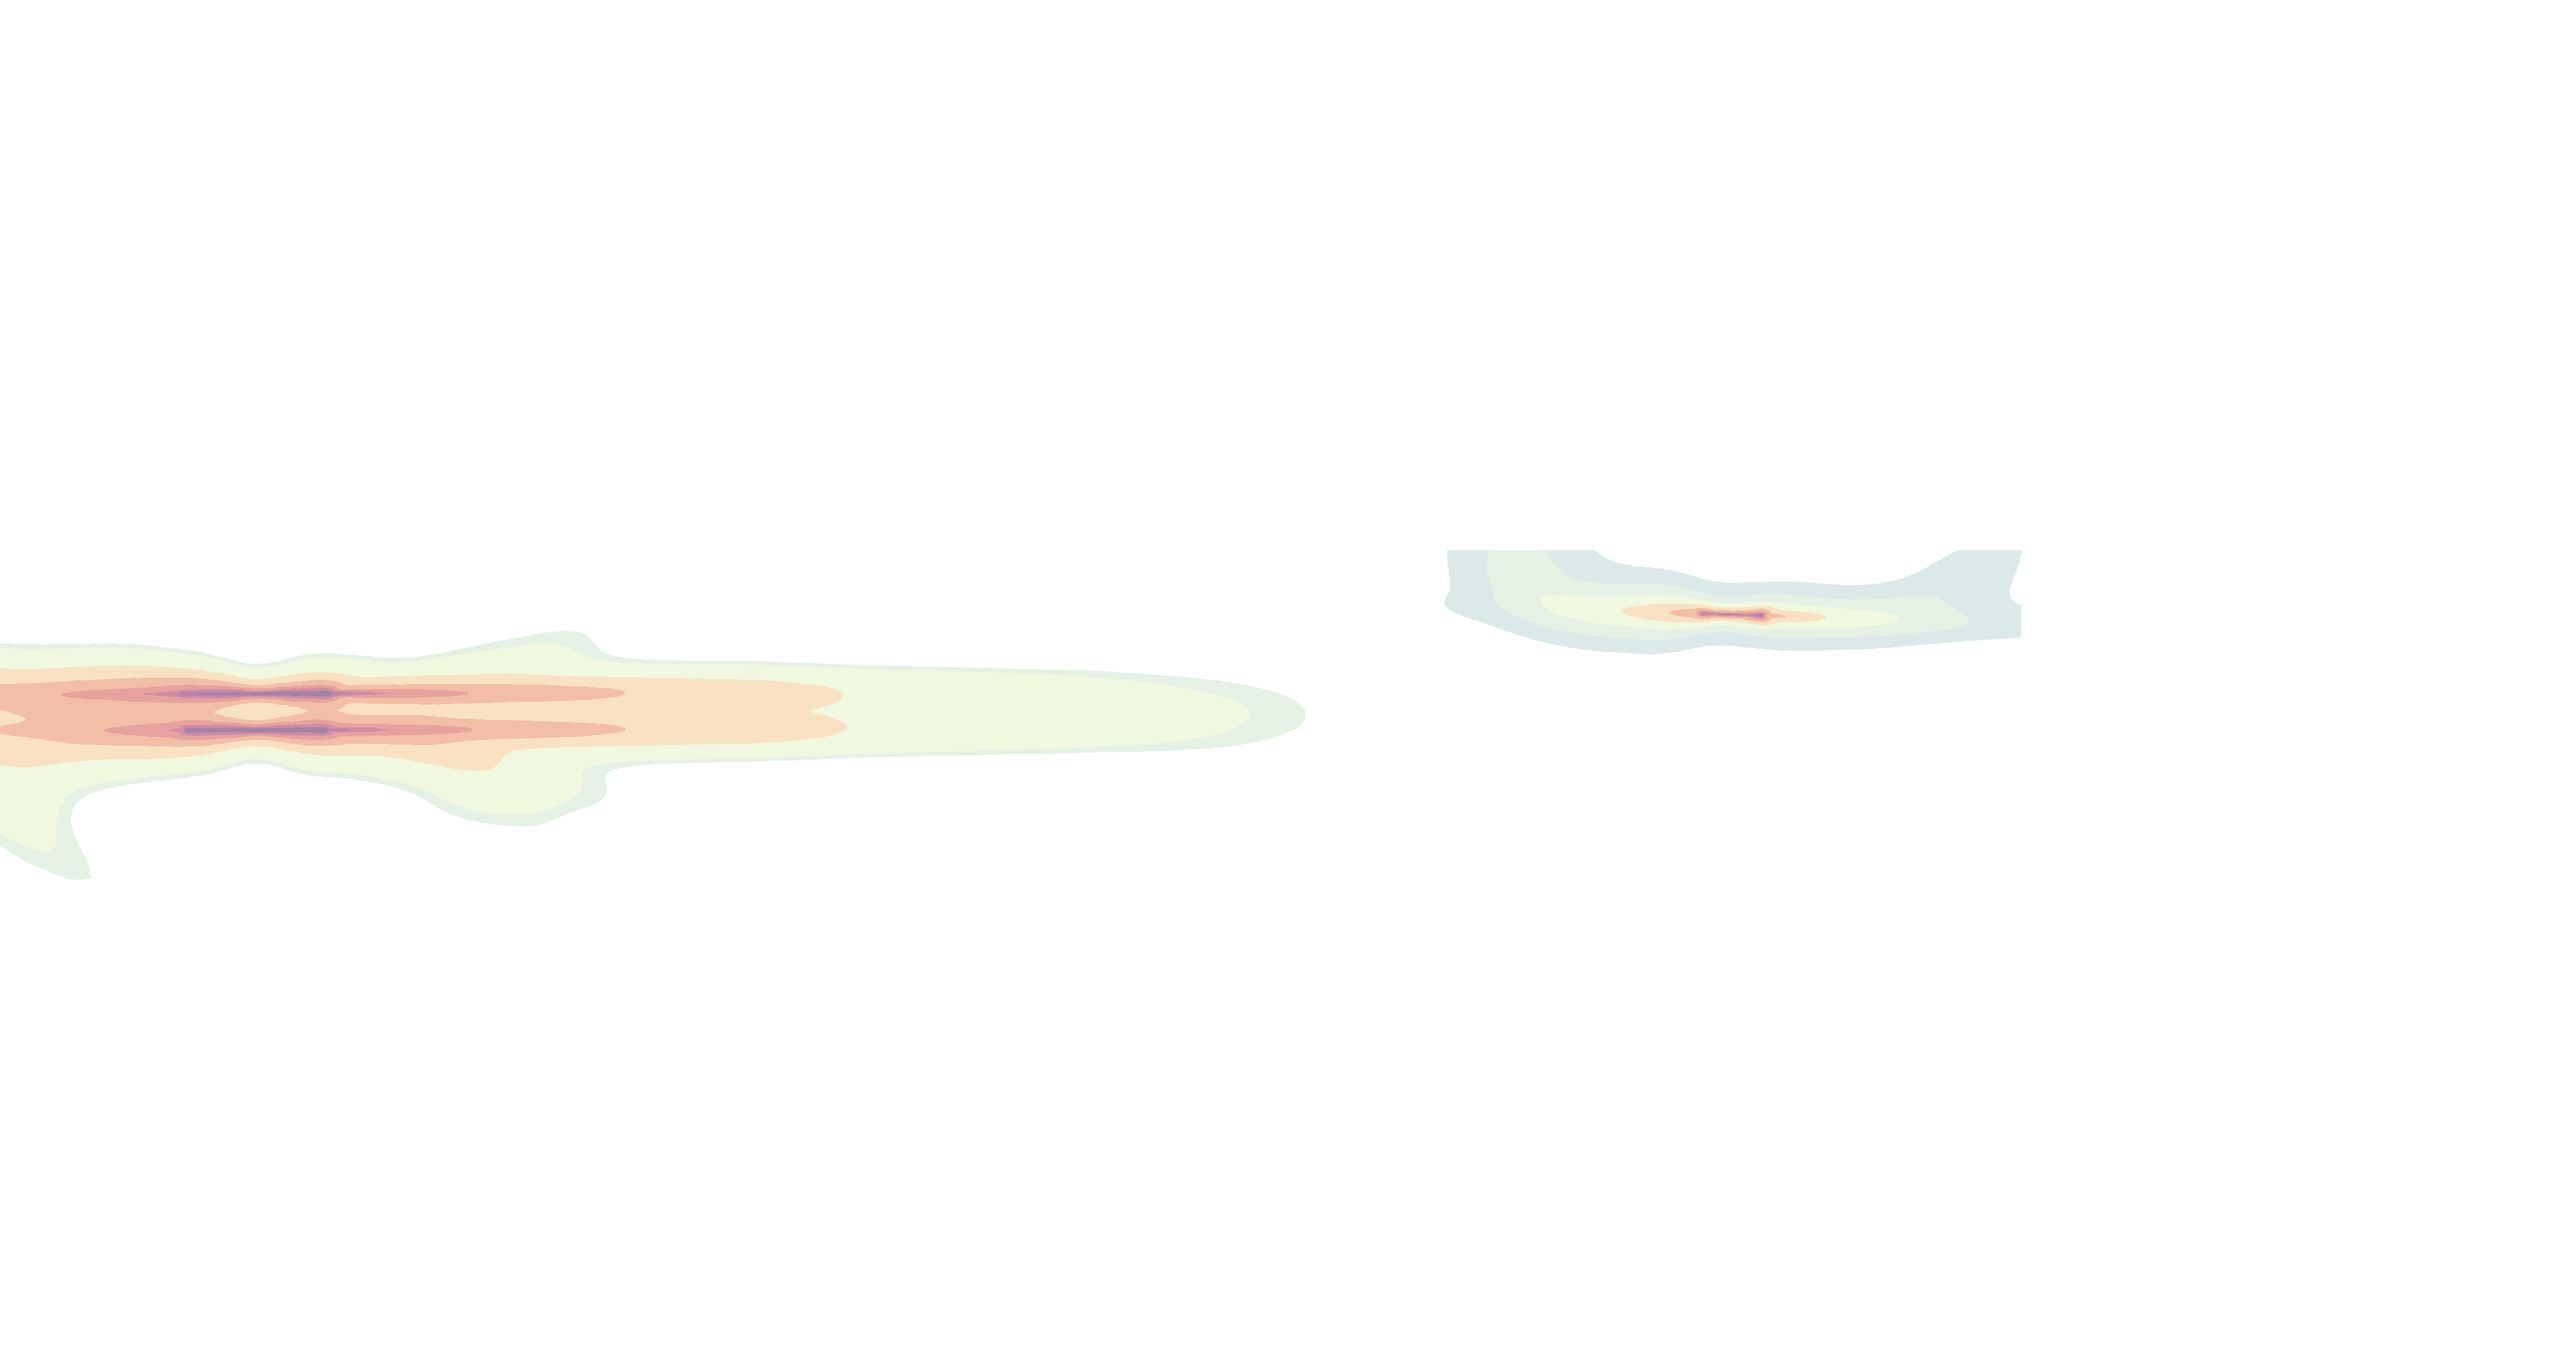
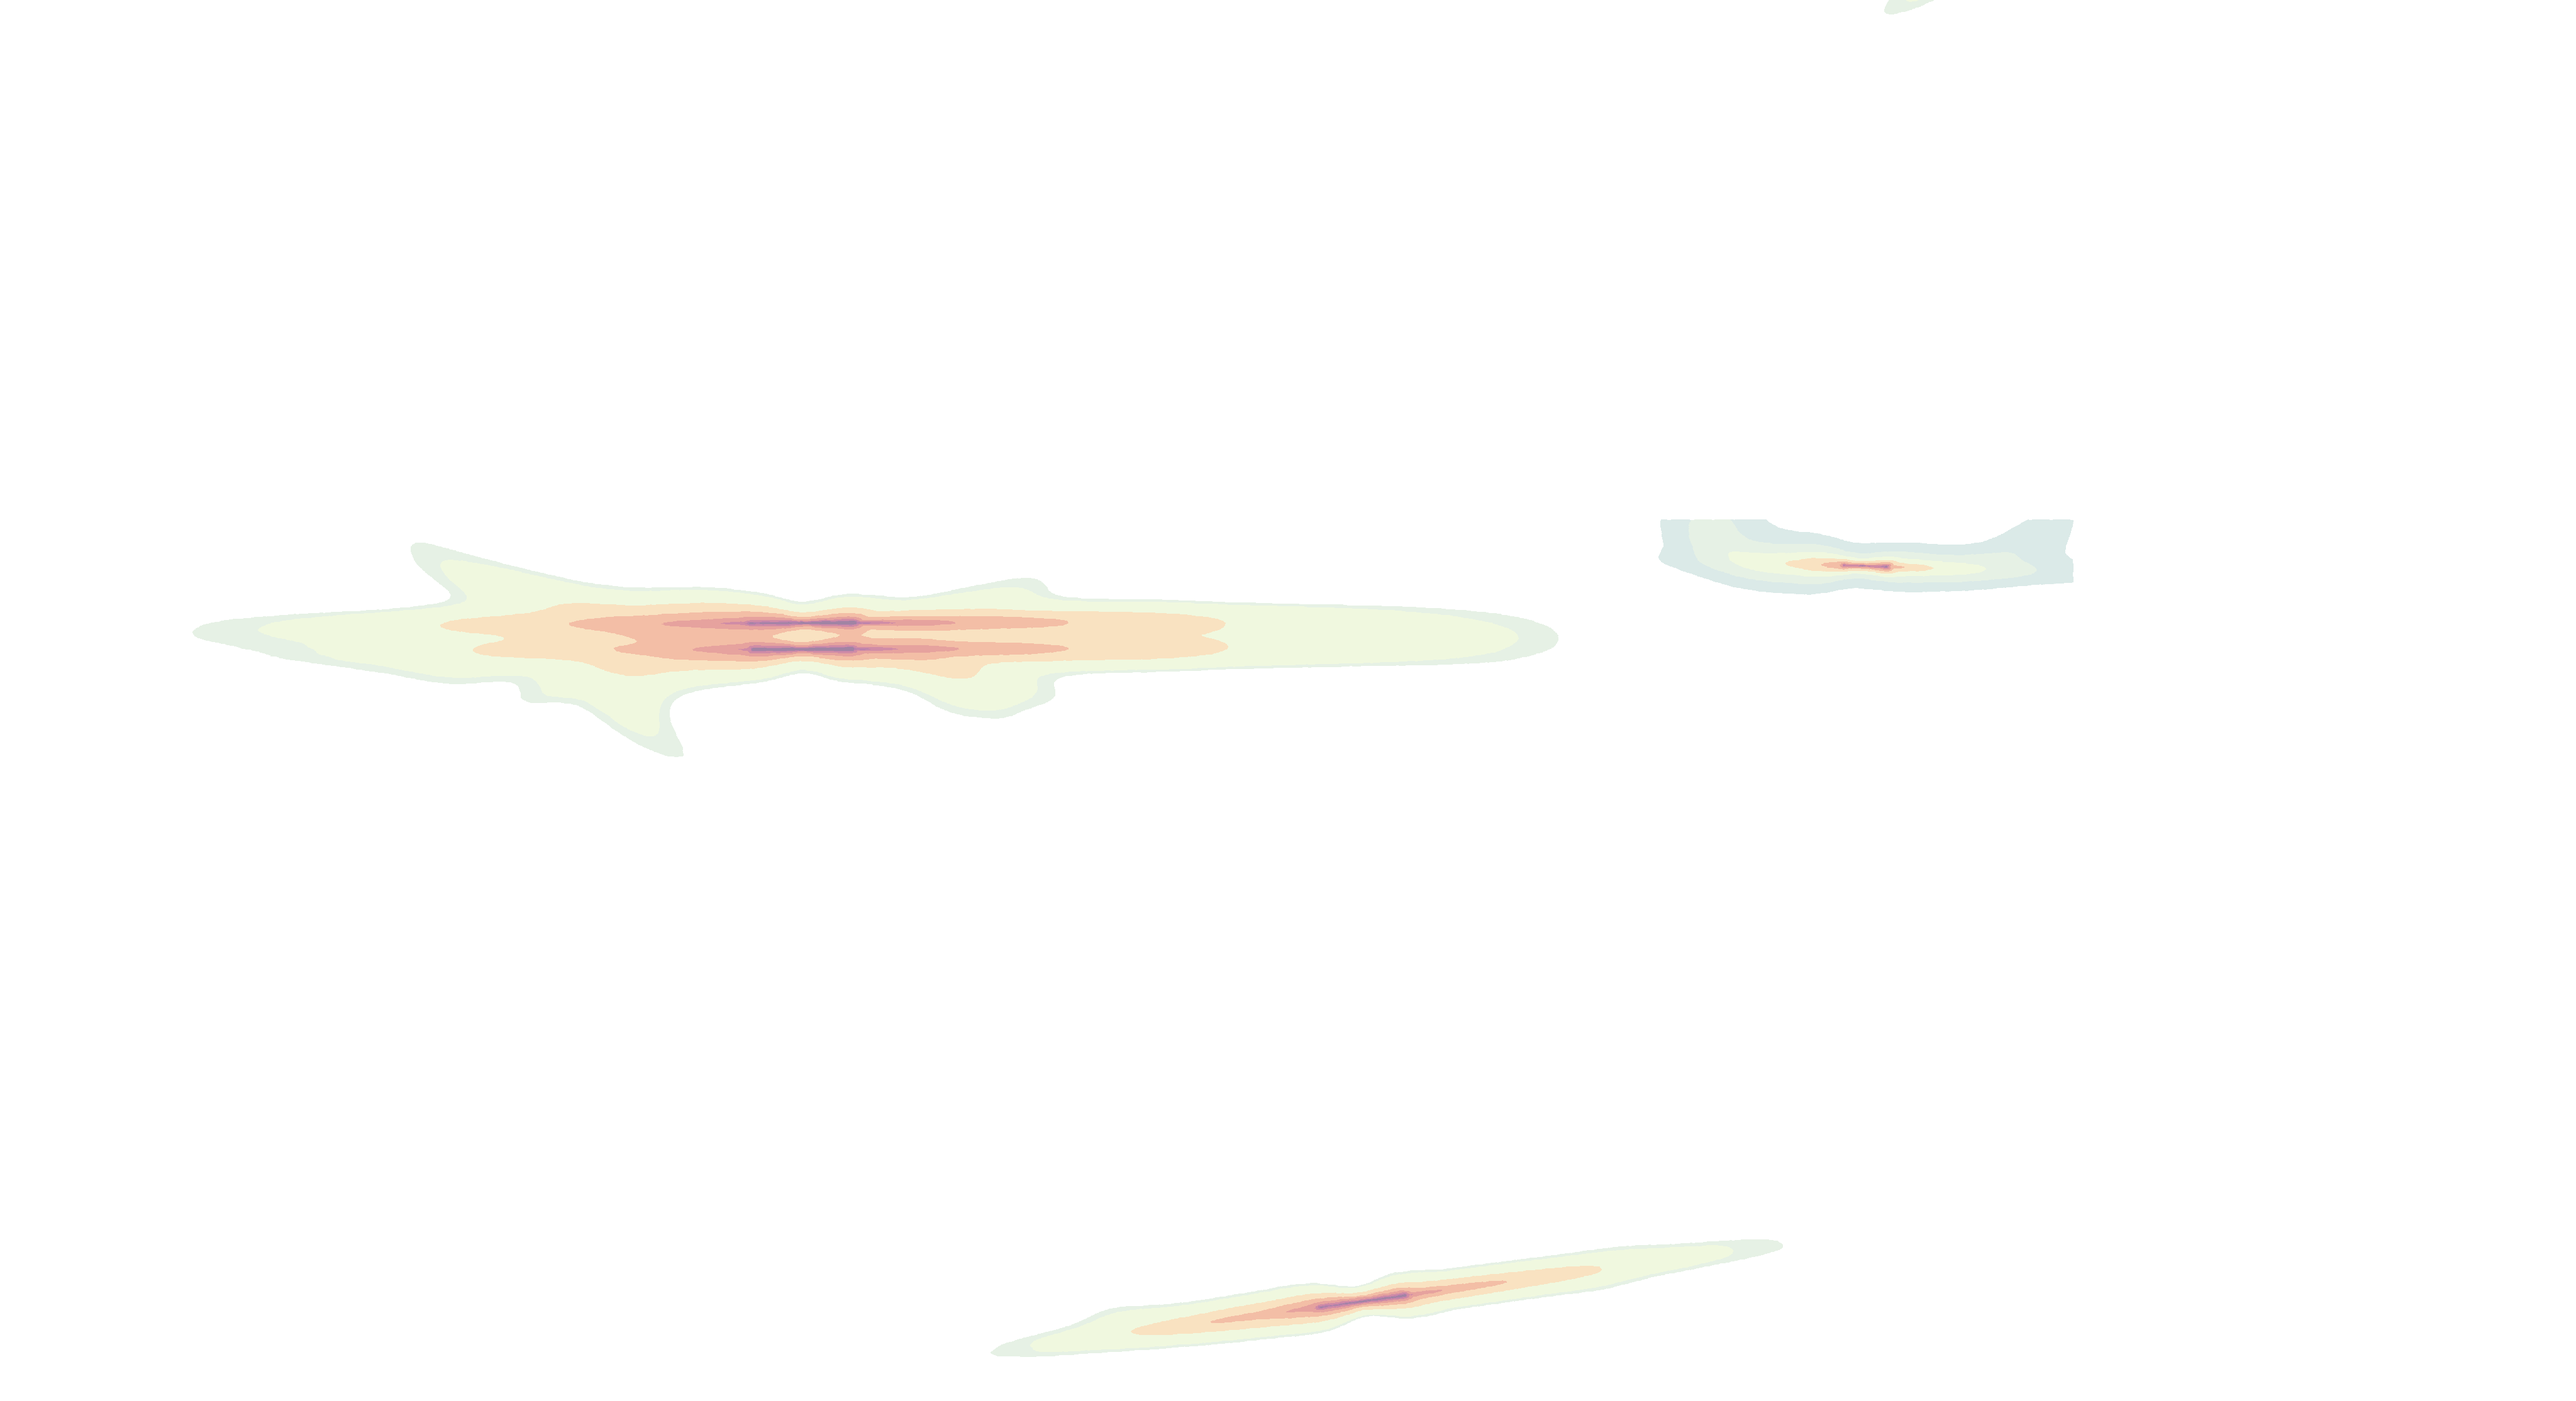
Wave 12.2: widen DEFRA aircraft bbox + add 'what this is' explainer
User flagged the contour cuts off, and asked whether the visual is real
data. Both addressed:

Bbox widened from (-0.55, 0.35, 51.25, 51.72) -> (-0.85, 0.40, 51.10, 51.78):
- Old box clipped the western half of LHR's butterfly contour
- Old box missed LGW (Gatwick) entirely (it's south of London proper but
  contours touch Croydon/Sutton/Bromley)
- LCY (London City) eastern approach also now cleanly inside
- Stansted + Luton still excluded; their Lden 55+ contours don't reach
  inhabited Greater London

PNG regenerated at 4096 x 2228 px (~21 m/px ground resolution). Aspect
recalculated. refresh_aircraft_noise.sh updated to match.

Legend explainer added: 'DEFRA Strategic Noise Map (Round 4, 2022 data),
the long-term average aircraft noise around LHR, LCY and LGW -- modelled
from a year of actual flight tracks, not a live feed. Used by councils
for planning decisions.' Answers the user's 'is this real data?' question
in-place without making them dig into the methodology page.

Changed region(s): [[0.0, 0.3703, 0.8125, 0.648], [0.375, 0.864, 0.6875, 0.9874], [0.7188, 0.0, 0.75, 0.0309]]

diff --git a/index.html b/index.html
@@ -1775,7 +1775,10 @@
               <span>75+ dB</span>
             </div>
             <div style="font-size: 8px; color: var(--mid); margin: 4px 0 0; line-height: 1.4;">
-              Year-averaged exposure (day + evening + night). Click any postcode for the exact value at that spot.
+              <strong>What this is:</strong> DEFRA Strategic Noise Map (Round 4, 2022 data),
+              the long-term average aircraft noise around LHR, LCY and LGW —
+              modelled from a year of actual flight tracks, not a live feed.
+              Used by councils for planning decisions. Click any postcode for the exact dB at that spot.
             </div>
           </div>
           <div id="legend-road-group" style="display: none">
@@ -3915,11 +3918,20 @@
       // because (a) the contour data IS bucketed in 5-dB bands so sub-pixel
       // detail is meaningless, (b) the legend warning already tells users
       // to zoom *out* for the macro picture, not in.
+      // visual fix-DEFRA-6: widened from (-0.55, 0.35, 51.25, 51.72) which
+      // clipped the western half of LHR's butterfly contour and missed
+      // Gatwick entirely. New bbox covers the full noise footprint of all
+      // four London airports that affect inhabited Greater London:
+      //   LHR (51.47, -0.45) — Heathrow, full east+west approach corridors
+      //   LCY (51.51, +0.05) — London City, eastern approach
+      //   LGW (51.15, -0.18) — Gatwick, affects Croydon/Sutton/Bromley
+      //   (Stansted/Luton still excluded — their contours don't reach
+      //    inhabited London at the Lden 55+ dB threshold.)
       const LONDON_AIRCRAFT_BBOX = {
-        minLon: -0.55,
-        maxLon: 0.35,
-        minLat: 51.25,
-        maxLat: 51.72,
+        minLon: -0.85,
+        maxLon: 0.40,
+        minLat: 51.10,
+        maxLat: 51.78,
       };
       // 4096 px (visual fix-DEFRA-2): user reported the contour bands were
       // "barely visible" after the fix-DEFRA-1 single-fetch refactor. Root
